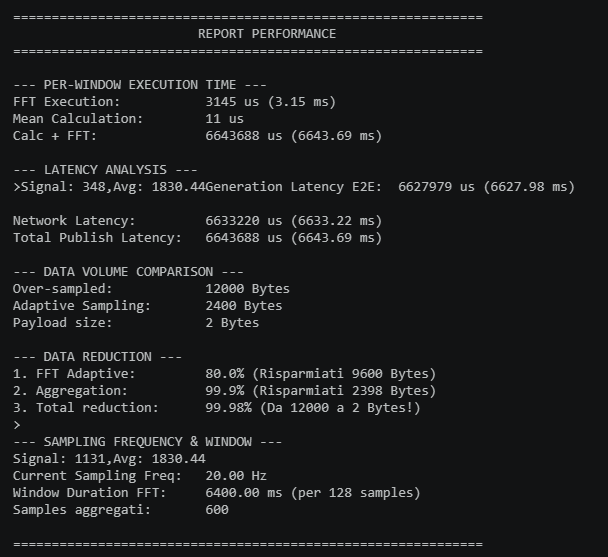
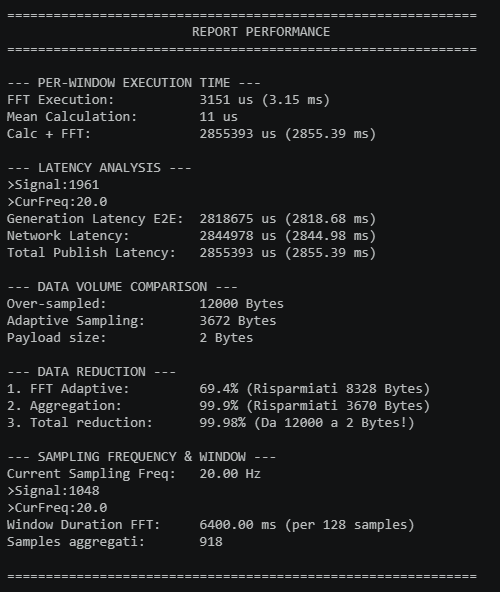
README final update

diff --git a/IoT_Individual/src/task_mqtt.hpp b/IoT_Individual/src/task_mqtt.hpp
@@ -91,7 +91,7 @@ void TaskMQTT(void *pvParameters) {
                     unsigned long generationLatency = endNetwork - startFromHere;
 
                     // PRINT FOR PERFORMANCE
-                    // printPerformanceReport(average,count,mathTime,NetworkLatency,publishLatency,generationLatency,realOversampledPerWindow*sizeof(int),count*sizeof(int),strlen(payload));
+                    printPerformanceReport(average,count,mathTime,NetworkLatency,publishLatency,generationLatency,realOversampledPerWindow*sizeof(int),count*sizeof(int),strlen(payload));
                 
                 }
             }

diff --git a/IoT_Individual/src/task_lora.hpp b/IoT_Individual/src/task_lora.hpp
@@ -93,7 +93,7 @@ void TaskLora(void *pvParameters) {
             }
 
             // PRINT FOR PERFORMANCE
-            // printPerformanceReport(avg,cnt,mathTime,networkLatency,publishLatency,generationLatency,realOversampledPerWindow*sizeof(int),cnt*sizeof(int),sizeof(payload));
+            printPerformanceReport(avg,cnt,mathTime,networkLatency,publishLatency,generationLatency,realOversampledPerWindow*sizeof(int),cnt*sizeof(int),sizeof(payload));
         }else {
         Serial.println("[Task LoRa] No data to send or not connected to TTN.");
         }

diff --git a/IoT_Individual/src/main.cpp b/IoT_Individual/src/main.cpp
@@ -19,7 +19,7 @@
 uint32_t devAddr=0x260B121E;
 uint8_t appSKey[16]={0x93, 0x56, 0xFE, 0xF3, 0x5C, 0xF8, 0x5C, 0x2A, 0x35, 0x1E, 0x4F, 0x33, 0x55, 0xCF, 0xF0, 0x85};
 uint8_t nwkSKey[16]={0x3C, 0x94, 0x56, 0x68, 0x36, 0x94, 0x8E, 0xD8, 0xBA, 0x05, 0x9C, 0xCC, 0x09, 0x0E, 0xF0, 0xCF};
-bool useLoraMode = true; // true = LoRaWAN, false = WiFi/MQTT
+bool useLoraMode = false; // true = LoRaWAN, false = WiFi/MQTT
 
 // ======= GLOBAL VARIABLES =======
 const int sensorPin = 1; // GPIO1 (ADC)

diff --git a/README.md b/README.md
@@ -1,6 +1,8 @@
 # IoT_IndividualProject
 The goal of the assignment is to create an IoT system that collects information from a sensor, analyses the data locally and communicates to a nearby server an aggregated value of the sensor readings. The IoT system adapts the sampling frequency in order to save energy and reduce communication overhead. The IoT device will be based on an ESP32 prototype board and the firmware will be developed using the FreeRTOS. You are free to use IoT-Lab or real devices.
 
+![Signal plot (from oversampling 1000hz to adaptive)](imgs/photo_individual.jpeg)
+
 ## Technical Details
 
 The project relies on a **FreeRTOS task-based architecture** running on an ESP32 (Heltec WiFi LoRa 32 V3). To ensure smooth compilation and avoid linker errors with hardware libraries, the code uses a "Unity Build" pattern, where tasks are separated in `.hpp` files and included in `main.cpp`.
@@ -103,6 +105,8 @@ The system is designed with precise microsecond-level profiling (micros()) to tr
     - In LoRa mode, a sendReceive architecture is implemented. The node requests a strict downlink response. The measured RTT successfully captures the physical Time-on-Air (ToA) of the uplink, combined with the protocol's mandatory RX1/RX2 receive windows (typically introducing a 1 to 2-second delay). This proves the FreeRTOS scheduler can handle massive latency disparities without halting the continuous background sampling of the sensors.
 
 ![Performance Report Table - LoRa case](imgs/peffomanceLORA.png)
+
+![Performance Report Table - LoRa case](imgs/peffomanceMQTT.png)
 
 
 ## Setup Guide
